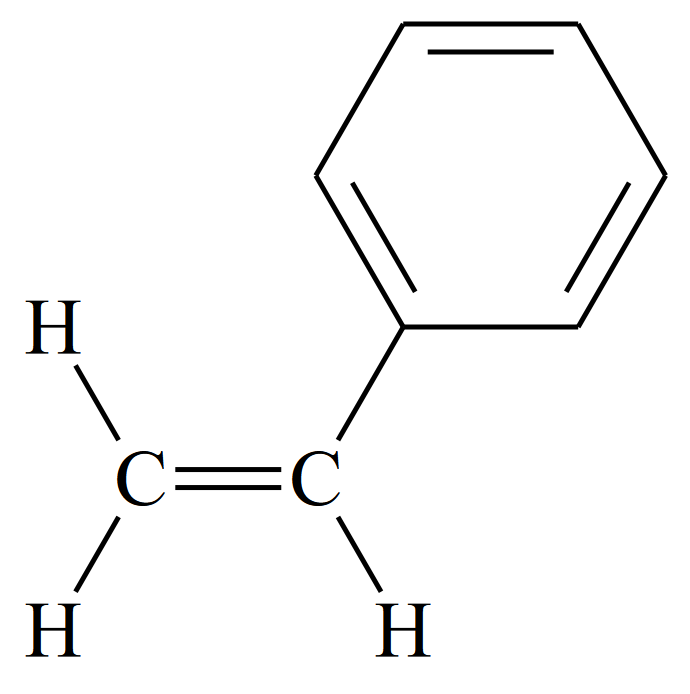
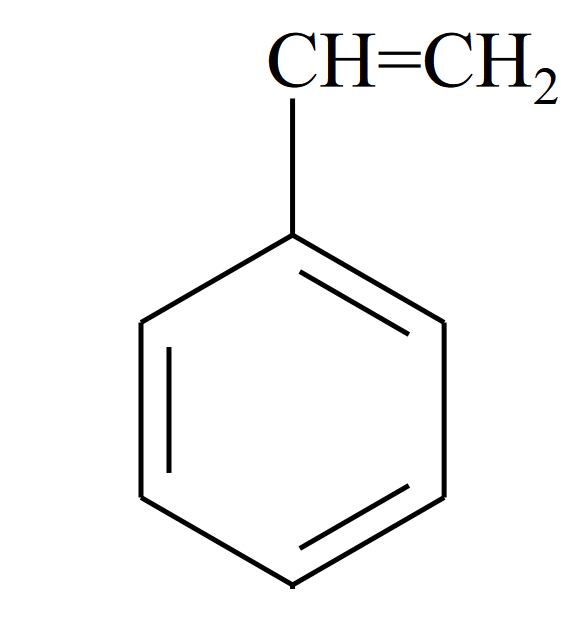
高分子クエスト：管理画面の全問題一覧に追加、検出反応の色の誤答とスチレン・アクリロニトリルの図を修正
- admin.html：全問題一覧に高分子クエスト(338問)を追加。構造式はサムネイル、一問多答は「多答」表示。会員詳細の進捗・プレイ者数にも追加
- ニンヒドリン反応・ビウレット反応の色の問題で「赤紫〜青紫色」と「赤紫色」が同時に出ないように
- スチレン：ベンゼン環を中央にビニル基を上に。アクリロニトリル：三重結合を書かず CN に

diff --git a/games/shared/admin.html b/games/shared/admin.html
@@ -76,6 +76,10 @@
   .qCell{white-space:normal;max-width:340px}
   .qCorrect{white-space:normal;max-width:200px;color:#15803d;font-weight:700}
   .qWrongs{white-space:normal;max-width:280px;color:#94a3b8;font-size:12px}
+  .qThumb{display:block;max-width:150px;max-height:80px;margin-top:4px;background:#fff;border:1px solid #e2e8f0;border-radius:6px;padding:2px}
+  .qThumbBox{display:inline-block;vertical-align:top;margin:0 6px 6px 0;font-size:11px;text-align:center}
+  .qThumbBox .qThumb{max-width:110px;max-height:64px;margin:0 auto 2px}
+  .qTag{display:inline-block;font-size:10.5px;font-weight:800;color:#2563eb;border:1px solid #93c5fd;border-radius:6px;padding:0 5px;margin-right:4px}
   .setFilterBtn{border:none;background:none;color:#94a3b8;font-size:9px;cursor:pointer;margin-left:4px;padding:2px 4px;border-radius:4px}
   .setFilterBtn:hover{background:#e2e8f0;color:#334155}
   .setFilterBtn.active{color:#2563eb}
@@ -172,6 +176,7 @@
         <option value="芳香族">芳香族</option>
         <option value="脂肪族">脂肪族</option>
         <option value="無機化学">無機化学</option>
+        <option value="高分子">高分子</option>
         <option value="化学RUSH！">化学RUSH！</option>
       </select></span>
       <span class="qGameFilter"><select id="qUserSelect">
@@ -217,7 +222,7 @@ const FIREBASE_CONFIG = {
   appId: "1:120466477782:web:f0ec79bf0cbbf8ef186f77"
 };
 const GOOGLE_CLIENT_ID = '120466477782-k5o5f91ugi2pc17bpcje8o6ojvj699rv.apps.googleusercontent.com';
-const GAME_NAMES = {inorganic:'無機化学クエスト', aromatic:'芳香族クエスト', aliphatic:'脂肪族クエスト', chemrunner:'化学RUSH！'};
+const GAME_NAMES = {inorganic:'無機化学クエスト', aromatic:'芳香族クエスト', aliphatic:'脂肪族クエスト', chemrunner:'化学RUSH！', polymer:'高分子クエスト'};
 // leaderboard.js 側で、Firebase が禁止する文字(. # $ [ ] /)を含むキー(無機化学の単元名など)
 // を可逆エスケープして保存している。ここは別ファイルなのでロジックを複製して復元する。
 const FB_KEY_UNESCAPE = [['%2E','.'],['%23','#'],['%24','$'],['%5B','['],['%5D',']'],['%2F','/'],['%25','%']];
@@ -256,6 +261,8 @@ function getAllProgress(u){
   if(inorg) Object.entries(inorg).forEach(([rawName,s])=>{ out.push({game:'無機化学', name: unescapeFbKey(rawName), gameKey:'inorganic', deckId:rawName, best: bestPctOf(s)}); });
   const chemRunner = d.chemRunnerCat1 && d.chemRunnerCat1.catStats;
   if(chemRunner) Object.entries(chemRunner).forEach(([rawName,s])=>{ out.push({game:'化学RUSH！', name: unescapeFbKey(rawName), gameKey:'chemrunner', deckId:rawName, best: bestPctOf(s)}); });
+  const polymer = d.polymerQuest1 && d.polymerQuest1.catStats;
+  if(polymer) Object.entries(polymer).forEach(([rawName,s])=>{ out.push({game:'高分子', name: unescapeFbKey(rawName), gameKey:'polymer', deckId:rawName, best: bestPctOf(s)}); });
   return out;
 }
 
@@ -334,7 +341,7 @@ function render(){
   const active7d = rows.filter(r=>now-r.lastActive < 7*24*3600*1000).length;
   const newThisWeek = rows.filter(r=>now-r.ts < 7*24*3600*1000).length;
   const avgDays = total ? (rows.reduce((s,r)=>s+r.days,0)/total).toFixed(1) : '0';
-  const gameSet = {aromatic:new Set(), aliphatic:new Set(), inorganic:new Set(), chemrunner:new Set()};
+  const gameSet = {aromatic:new Set(), aliphatic:new Set(), inorganic:new Set(), chemrunner:new Set(), polymer:new Set()};
   rows.forEach(r=>{ r.progress.forEach(p=>{ if(p.best>0){ const gk = p.gameKey==='aroma'?'aromatic':p.gameKey; if(gameSet[gk]) gameSet[gk].add(r.uid); } }); });
 
   document.getElementById('stats').innerHTML = `
@@ -347,6 +354,7 @@ function render(){
     <div class="stat"><b>${gameSet.aliphatic.size}</b><span>脂肪族プレイ者</span></div>
     <div class="stat"><b>${gameSet.inorganic.size}</b><span>無機化学プレイ者</span></div>
     <div class="stat"><b>${gameSet.chemrunner.size}</b><span>化学RUSH！プレイ者</span></div>
+    <div class="stat"><b>${gameSet.polymer.size}</b><span>高分子プレイ者</span></div>
   `;
 
   if(q){
@@ -398,7 +406,7 @@ function renderDetail(uid){
   if(!u) return;
   const r = buildRows().find(x=>x.uid===uid);
   const av = r.avatar ? `<img class="avatar" src="${r.avatar}" style="width:32px;height:32px">` : `<span class="avatar" style="width:32px;height:32px;font-size:13px">${escapeHtml(r.nickname[0]||'?')}</span>`;
-  const groups = {'芳香族':[], '脂肪族':[], '無機化学':[], '化学RUSH！':[]};
+  const groups = {'芳香族':[], '脂肪族':[], '無機化学':[], '高分子':[], '化学RUSH！':[]};
   r.progress.forEach(p=>{ if(groups[p.game]) groups[p.game].push(p); });
   const likes = u.likes || {};
   const unlikedCount = r.progress.filter(p=>p.best===100 && !(likes[p.gameKey] && likes[p.gameKey][p.deckId])).length;
@@ -600,6 +608,7 @@ function loadAllQuestions(){
     {url:'../aromatic-quest/index.html', game:'芳香族', gameKey:'aromatic', marker:'const MEMO_DECKS=', open:'[', close:']', kind:'decks'},
     {url:'../aliphatic-quest/index.html', game:'脂肪族', gameKey:'aliphatic', marker:'const MEMO_DECKS=', open:'[', close:']', kind:'decks'},
     {url:'../inorganic-quest/index.html', game:'無機化学', gameKey:'inorganic', marker:'const DATA = ', open:'{', close:'}', kind:'flat'},
+    {url:'../polymer-quest/data.js', game:'高分子', gameKey:'polymer', marker:'const DATA = ', open:'{', close:'}', kind:'polymer'},
     {url:'../chembasics-quest/index.html', game:'化学RUSH！', gameKey:'chemrunner', marker:'const RUNNER_QUESTIONS = ', open:'[', close:']', kind:'boolq'}
   ];
   return Promise.all(sources.map(s=>
@@ -619,6 +628,16 @@ function loadAllQuestions(){
         const stripTags = html => String(html||'').replace(/<[^>]+>/g, '');
         parsed.forEach(it=>{
           out.push({game:s.game, gameKey:s.gameKey, id:it.id, set: it.genre, q: stripTags(it.statement), correct: it.answer ? '正しい(○)' : '誤り(×)', wrongs: []});
+        });
+      } else if(s.kind==='polymer'){
+        // 構造式画像つきの問題は、管理画面でも小さな画像で表示する
+        const imgs = parsed.images||{};
+        const src = n => '../polymer-quest/assets/memo/'+encodeURIComponent(imgs[n]||n);
+        (parsed.items||[]).forEach(it=>{
+          const ans = it.answers||[it.correct];
+          out.push({game:s.game, gameKey:s.gameKey, id:it.id, set: it.cat, q: it.q, correct: it.correct, wrongs: it.wrongs||[],
+            multi: !!it.answers, qImg: it.img ? src(it.img) : null,
+            choiceImgs: it.choiceImg ? {ok: ans.map(n=>({n, src:src(n)})), ng: (it.wrongs||[]).map(n=>({n, src:src(n)}))} : null});
         });
       } else {
         (parsed.items||[]).forEach(it=>{
@@ -757,6 +776,9 @@ document.addEventListener('click', e=>{
     panel.style.display = 'none';
   }
 });
+function thumbList(list){
+  return list.map(c=>`<span class="qThumbBox"><img class="qThumb" src="${c.src}" alt="" loading="lazy"><span>${escapeHtml(c.n)}</span></span>`).join('');
+}
 function renderQuestions(){
   const q = (document.getElementById('qSearchBox').value||'').trim().toLowerCase();
   const gameFilter = document.getElementById('qGameSelect').value;
@@ -795,9 +817,9 @@ function renderQuestions(){
     <tr>
       <td>${escapeHtml(x.game)}</td>
       <td>${escapeHtml(x.set)}</td>
-      <td class="qCell">${escapeHtml(x.q)}</td>
-      <td class="qCorrect">${escapeHtml(String(x.correct))}</td>
-      <td class="qWrongs">${x.wrongs.map(w=>escapeHtml(String(w))).join(' / ')}</td>
+      <td class="qCell">${x.multi?'<span class="qTag">多答</span>':''}${escapeHtml(x.q)}${x.qImg?`<img class="qThumb" src="${x.qImg}" alt="" loading="lazy">`:''}</td>
+      <td class="qCorrect">${x.choiceImgs?thumbList(x.choiceImgs.ok):escapeHtml(String(x.correct))}</td>
+      <td class="qWrongs">${x.choiceImgs?thumbList(x.choiceImgs.ng):x.wrongs.map(w=>escapeHtml(String(w))).join(' / ')}</td>
       <td>${fmtPct(x.gStat)}</td>
       <td>${selUser ? fmtPct(x.uStat) : '<span class="noProg">-</span>'}</td>
     </tr>`).join('');

diff --git a/games/polymer-quest/data.js b/games/polymer-quest/data.js
@@ -3175,10 +3175,10 @@ const DATA = {
    "q": "ニンヒドリン反応で見られる色はどれか。",
    "correct": "赤紫〜青紫色",
    "wrongs": [
-    "赤紫色",
     "黄色→(アンモニア水で)橙黄色",
     "黒色沈殿",
-    "青色"
+    "緑色",
+    "白色沈殿"
    ],
    "cat": "No.13 アミノ酸・タンパク質の検出反応",
    "id": "peef9ea0d"
@@ -3187,22 +3187,23 @@ const DATA = {
    "q": "ビウレット反応で見られる色はどれか。",
    "correct": "赤紫色",
    "wrongs": [
-    "赤紫〜青紫色",
     "黄色→(アンモニア水で)橙黄色",
     "黒色沈殿",
-    "青色"
+    "青色",
+    "緑色"
    ],
    "cat": "No.13 アミノ酸・タンパク質の検出反応",
-   "id": "p160fd26c"
+   "id": "p160fd26c",
+   "exp": "Cu²⁺ がペプチド結合の部分と錯イオンをつくって赤紫色になる"
   },
   {
    "q": "キサントプロテイン反応で見られる色の変化はどれか。",
    "correct": "黄色→(アンモニア水で)橙黄色",
    "wrongs": [
-    "赤紫〜青紫色",
     "赤紫色",
     "黒色沈殿",
-    "青色"
+    "青色",
+    "白色沈殿"
    ],
    "cat": "No.13 アミノ酸・タンパク質の検出反応",
    "id": "p82e241a3"
@@ -3211,9 +3212,9 @@ const DATA = {
    "q": "硫黄の検出反応で見られる変化はどれか。",
    "correct": "黒色沈殿",
    "wrongs": [
-    "赤紫〜青紫色",
     "赤紫色",
     "黄色→(アンモニア水で)橙黄色",
+    "白色沈殿",
     "青色"
    ],
    "cat": "No.13 アミノ酸・タンパク質の検出反応",
